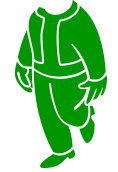
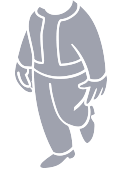
More UI tweaks, and some placeholder biometric data

diff --git a/stats.py b/stats.py
@@ -2,12 +2,16 @@ import pygame
 import os
 import math
 import random
-from config import * 
+from config import *
 
 class StatPage:
     def __init__(self):
         self.content = "Lorem ipsum dolor sit amet, consectetur adipiscing elit. Donec vehicula."
         
+        # FONTS
+        self.small_font = RobotoR[24]
+
+
         # Load leg frames at original size
         self.leg_frames = [pygame.image.load(os.path.join('images/legs', f'{i}.png')).convert_alpha() for i in range(1, 9)]
         self.current_leg_frame = 0
@@ -38,8 +42,28 @@ class StatPage:
         self.ap = 60
         self.ap_max = 75
 
-        #Font Params
+        # Font Params
         self.footer_bold = RobotoB[26]
+
+        # Sensor readouts
+        self.heart_rate = 72
+        self.spo2 = 98
+        self.temperature = 36.5
+        self.humidity = 45
+        self.pressure = 1013
+        self.altitude = 150
+        self.bac = 0.0
+
+        # Load icons
+        self.icons = {
+            "heart_rate": pygame.image.load('images/icons/heart.png').convert_alpha(),
+            "spo2": pygame.image.load('images/icons/ox.png').convert_alpha(),
+            "temperature": pygame.image.load('images/icons/temp.png').convert_alpha(),
+            "humidity": pygame.image.load('images/icons/humid.png').convert_alpha(),
+            "pressure": pygame.image.load('images/icons/pressure.png').convert_alpha(),
+            "altitude": pygame.image.load('images/icons/altitude.png').convert_alpha(),
+            "bac": pygame.image.load('images/icons/bac.png').convert_alpha()
+        }
 
     def resize_images(self):
         supersample_factor = self.supersample_factor
@@ -64,21 +88,24 @@ class StatPage:
         textrect.topleft = (x, y)
         surface.blit(textobj, textrect)
 
-    def draw_animation(self, surface):
+    def draw_animation(self, surface, color):
         now = pygame.time.get_ticks()
         if now - self.last_update > self.leg_frame_delay:
             self.last_update = now
             self.current_leg_frame = (self.current_leg_frame + 1) % len(self.leg_frames)
         
-        leg_image = self.leg_frames[self.current_leg_frame]
+        leg_image = self.leg_frames[self.current_leg_frame].copy()
+        leg_image.fill(color, special_flags=pygame.BLEND_MULT)
         leg_rect = leg_image.get_rect(center=(320, 280))  # Center on screen (400x320)
         surface.blit(leg_image, leg_rect.topleft)
         
         # Calculate head bob offset based on current leg frame
         head_bob_offset = self.head_bob_amplitude * math.sin(self.current_leg_frame * (2 * math.pi / len(self.leg_frames)) - 1)
         head_bob_offset2 = self.head_bob_amplitude * math.sin(self.current_leg_frame * (2.1 * math.pi / len(self.leg_frames)) + 1)
-        head_rect = self.head_frame.get_rect(center=(318 + head_bob_offset2, 164 + head_bob_offset))  # Position above legs with bob
-        surface.blit(self.head_frame, head_rect.topleft)
+        head_image = self.head_frame.copy()
+        head_image.fill(color, special_flags=pygame.BLEND_MULT)
+        head_rect = head_image.get_rect(center=(318 + head_bob_offset2, 164 + head_bob_offset))  # Position above legs with bob
+        surface.blit(head_image, head_rect.topleft)
 
     def draw_footer(self, surface, font, color):
        screen_width, screen_height = surface.get_size()
@@ -121,7 +148,30 @@ class StatPage:
        pygame.draw.rect(surface, get_color('BRIGHT'), (xp_bar_x, xp_bar_y, xp_bar_width, xp_bar_height), 2)
        pygame.draw.rect(surface, get_color('BRIGHT'), (xp_bar_x, xp_bar_y, xp_bar_width * xp_percentage, xp_bar_height))
 
+    def draw_sensors(self, surface, font, color):
+        sensor_data = [
+            ("heart_rate", f"{self.heart_rate} BPM", (460, 150)),  # Near chest
+            ("spo2", f"{self.spo2}%", (460, 220)),  # Near arm
+            ("bac", f"{self.bac} %", (460, 290)),  # Near head
+            ####
+            ("temperature", f"{self.temperature}°F", (20, 120)),  # Near stomach
+            ("humidity", f"{self.humidity}%", (20, 190)),  # Near other arm
+            ("pressure", f"{self.pressure} hPa", (20, 260)),  # Below Vault Boy
+            ("altitude", f"{self.altitude} FT", (20, 330))  # Below Vault Boy
+            
+        ]
+
+        for icon_key, value, (x, y) in sensor_data:
+            rect = pygame.Rect(x, y, 160, 40)  # Smaller rectangular boxes
+            pygame.draw.rect(surface, get_color('DARK'), rect)
+            icon = pygame.transform.scale(self.icons[icon_key], (30, 30))
+            icon.fill(color, special_flags=pygame.BLEND_MULT)
+            surface.blit(icon, (rect.x + 5, rect.y + 5))  # Icon on the left
+            text_surface = self.small_font.render(value, True, color)
+            text_rect = text_surface.get_rect(midleft=(rect.x + 45, rect.centery))  # Text to the right of the icon
+            surface.blit(text_surface, text_rect)
+
     def draw(self, surface, font, color):
-        #self.draw_text(self.content, font, color, surface, 20, 20)
-        self.draw_animation(surface)
+        self.draw_animation(surface, color)
         self.draw_footer(surface, font, color)
+        self.draw_sensors(surface, font, color)

diff --git a/pipboy.py b/pipboy.py
@@ -36,6 +36,16 @@ underlay = Overlay('images/overlay_dark.png', SCREEN_WIDTH, SCREEN_HEIGHT, stren
 # Initialize scanline
 scanline = Scanline('images/scanline.png', SCREEN_WIDTH, 60, SCREEN_HEIGHT, speed=3, delay=1.05)
 
+# MOUSE DEBUG
+def draw_mouse_position(surface, font, color):
+    mouse_x, mouse_y = pygame.mouse.get_pos()
+    adjusted_x = mouse_x - OFFSET_X
+    adjusted_y = mouse_y - OFFSET_Y
+    pos_text = f"X: {adjusted_x}, Y: {adjusted_y}"
+    text_surface, _ = font.render(pos_text, color)
+    surface.blit(text_surface, (10, 10))  # Position the text at the top-left corner
+# END MOUSE DEBUG
+
 def draw_centered_text(text, font_size, color, surface, rect, font_type='RobotoB'):
     font = globals()[font_type][font_size]
     textobj = font.render(text, True, color)
@@ -114,13 +124,18 @@ def main():
 
         # Update and render scanline on the game screen
         scanline.update()
-        scanline.render(game_screen)
+        scanline.render(game_screen, get_color('BRIGHT'))
 
         # Apply CRT shader on the game screen
         crt_screen = crt_shader.apply(game_screen.copy())
 
+
         # Blit the CRT screen onto the canvas with the offset
         canvas.blit(crt_screen, (OFFSET_X, OFFSET_Y))
+
+        # Display the mouse position for debugging
+        #draw_mouse_position(canvas, small_font, get_color('BRIGHT'))
+
 
         # Display the canvas
         screen.blit(canvas, (0, 0))

diff --git a/images/gray.py b/images/gray.py
@@ -1,0 +1,27 @@
+from PIL import Image
+import os
+
+def greyscale_images_in_folder(folder_path):
+    # Check if the folder exists
+    if not os.path.exists(folder_path):
+        print(f"The folder {folder_path} does not exist.")
+        return
+
+    # Loop through all files in the folder
+    for filename in os.listdir(folder_path):
+        # Construct the full file path
+        file_path = os.path.join(folder_path, filename)
+
+        # Check if the file is an image
+        if os.path.isfile(file_path) and filename.lower().endswith(('.png', '.jpg', '.jpeg', '.bmp', '.gif', '.tiff')):
+            # Open the image
+            with Image.open(file_path) as img:
+                # Convert the image to greyscale
+                greyscale_img = img.convert('L')
+                # Save the greyscale image
+                greyscale_img.save(file_path)
+                print(f"Converted {filename} to greyscale.")
+
+if __name__ == "__main__":
+    folder_path = input("Enter the path to the folder containing images: ")
+    greyscale_images_in_folder(folder_path)

diff --git a/effects.py b/effects.py
@@ -40,9 +40,11 @@ class Scanline:
                 self.rect.y = -self.rect.height
                 self.last_move_time = current_time
 
-    def render(self, surface):
+    def render(self, surface, color):
+        tinted_image = self.image.copy()
+        tinted_image.fill(color, special_flags=pygame.BLEND_MULT)
         for _ in range(self.strength):  # Apply the overlay multiple times
-            surface.blit(self.image, self.rect, special_flags=pygame.BLEND_ADD)
+            surface.blit(tinted_image, self.rect, special_flags=pygame.BLEND_ADD)
 
 #CRT Distortion Class
 class CRTShader:
